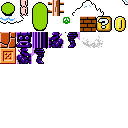
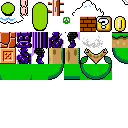
Added foreground, some more tiles, level 1 design

Changed region(s): [[0.0, 0.25, 1.0, 0.625]]

diff --git a/02-Bubble/Scene.cpp b/02-Bubble/Scene.cpp
@@ -10,13 +10,14 @@
 #define SCREEN_Y 0
 
 #define INIT_PLAYER_X_TILES 0
-#define INIT_PLAYER_Y_TILES 4
+#define INIT_PLAYER_Y_TILES 13
 
 
 Scene::Scene()
 {
 	map = NULL;
 	bgmap = NULL;
+	fgmap = NULL;
 	player = NULL;
 }
 
@@ -41,6 +42,7 @@ void Scene::init(int lvl)
 	string levelX = "level0" + std::to_string(lvl);
 
 	map = TileMap::createTileMap("levels/" + levelX + ".txt", glm::vec2(SCREEN_X, SCREEN_Y), texProgram, false);
+	fgmap = TileMap::createTileMap("levels/"+levelX + "-fg.txt", glm::vec2(0,0), texProgram, true);
 	bgmap = TileMap::createTileMap("levels/" + levelX + "-bg.txt", glm::vec2(0, 0), texProgram, true);
 
 	// Level, coins, points, remainig time, gameOver?
@@ -58,14 +60,14 @@ void Scene::init(int lvl)
 	if (lvl == 1){
 		// Ubicacions dels enemics en el nivell 1
 		enemies.clear();
-		enemies.resize(3);
-		for (int e = 0; e < 3; ++e) {
+		//enemies.resize(3);
+		/*for (int e = 0; e < 3; ++e) {
 			enemies[e] = new Item();
 			if (e < 2) enemies[e]->init(glm::vec2(SCREEN_X, SCREEN_Y), texProgram, 1); // 1 = Koopa, 0 = Goomba
 			else enemies[e]->init(glm::vec2(SCREEN_X, SCREEN_Y), texProgram, 0);
 			enemies[e]->setPosition(glm::vec2(10 * map->getTileSize() + (e-1)*40, 10 * map->getTileSize()));
 			enemies[e]->setTileMap(map);
-		}
+		}*/
 	}
 	else if (lvl == 2)
 	{
@@ -455,6 +457,17 @@ void Scene::render()
 	for (int i = 0; i < items.size(); ++i){
 		if (!items[i]->isDead()) items[i]->render();
 	}
+
+	texProgram.setUniformMatrix4f("projection", projection);
+	texProgram.setUniform4f("color", 1.0f, 1.0f, 1.0f, 1.0f);
+	modelview = glm::mat4(1.0f);
+	texProgram.setUniformMatrix4f("modelview", modelview);
+	texProgram.setUniform2f("texCoordDispl", 0.f, 0.f);
+	texProgram.setUniformInt("invertX", 0); // False
+
+
+	// Render foreground
+	fgmap->render();
 
 	// Render text
 	string pointString = std::to_string(points + map->getTotalCoins()*100);

diff --git a/02-Bubble/Player.cpp b/02-Bubble/Player.cpp
@@ -85,7 +85,7 @@ void Player::init(const glm::ivec2& tileMapPos, ShaderProgram& shaderProgram)
 	sprite->setAnimationSpeed(FLAGPOLE, 1);
 	sprite->addKeyframe(FLAGPOLE, glm::vec2(0.75f, 0.125f));
 
-	sprite->changeAnimation(0, false);
+	sprite->changeAnimation(STAND_RIGHT, false);
 	tileMapDispl = tileMapPos;
 	sprite->setPosition(glm::vec2(float(tileMapDispl.x + posPlayer.x), float(tileMapDispl.y + posPlayer.y)));
 
@@ -128,7 +128,7 @@ void Player::init(const glm::ivec2& tileMapPos, ShaderProgram& shaderProgram)
 	bigSprite->setAnimationSpeed(MID_LEFT, 1);
 	bigSprite->addKeyframe(MID_LEFT, glm::vec2(0.625f, 0.125f));
 
-	bigSprite->changeAnimation(0, false);
+	bigSprite->changeAnimation(STAND_RIGHT, false);
 	tileMapDispl = tileMapPos;
 	bigSprite->setPosition(glm::vec2(float(tileMapDispl.x + posPlayer.x), float(tileMapDispl.y + posPlayer.y)));
 
@@ -208,7 +208,7 @@ void Player::init(const glm::ivec2& tileMapPos, ShaderProgram& shaderProgram)
 	starSprite->addKeyframe(FLAGPOLE, glm::vec2(0.75f, 0.625f));
 	starSprite->addKeyframe(FLAGPOLE, glm::vec2(0.75f, 0.875f));
 
-	starSprite->changeAnimation(0, false);
+	starSprite->changeAnimation(STAND_RIGHT, false);
 	tileMapDispl = tileMapPos;
 	starSprite->setPosition(glm::vec2(float(tileMapDispl.x + posPlayer.x), float(tileMapDispl.y + posPlayer.y)));
 
@@ -298,7 +298,7 @@ void Player::init(const glm::ivec2& tileMapPos, ShaderProgram& shaderProgram)
 	starbigSprite->addKeyframe(MID_LEFT, glm::vec2(0.625f, 0.875f));
 
 
-	starbigSprite->changeAnimation(0, false);
+	starbigSprite->changeAnimation(STAND_RIGHT, false);
 	tileMapDispl = tileMapPos;
 	starbigSprite->setPosition(glm::vec2(float(tileMapDispl.x + posPlayer.x), float(tileMapDispl.y + posPlayer.y)));
 

diff --git a/02-Bubble/Screen.cpp b/02-Bubble/Screen.cpp
@@ -22,12 +22,14 @@ Screen::Screen()
 {
     map = NULL;
 	bgmap = NULL;
+	fgmap = NULL;
 }
 
 Screen::~Screen()
 {
     if (map != NULL) delete map;
 	if (bgmap!=NULL) delete bgmap;
+	if (fgmap!=NULL) delete fgmap;
 }
 
 
@@ -35,6 +37,7 @@ void Screen::init(int numScreen){
     initShaders();
 	initGlyphTextures();
 	bgmap = TileMap::createTileMap("levels/level01-bg.txt", glm::vec2(0, 0), texProgram, true);
+	fgmap = TileMap::createTileMap("levels/level01-fg.txt", glm::vec2(0,0), texProgram, true);
 
     nextScreen = -1;
     selection = PLAY_SELECT;
@@ -114,6 +117,7 @@ void Screen::render(){
 
 	glClearColor(.57f, 0.57f, 1.0f, 1.0f);
 	bgmap->render();
+	fgmap->render();
 
 	switch (screenType){
 		case MAINMENU:

diff --git a/02-Bubble/Scene.h b/02-Bubble/Scene.h
@@ -41,6 +41,7 @@ private:
 
 	TileMap* map;
 	TileMap* bgmap;
+	TileMap* fgmap;
 	Player* player;
 	vector<Item*> enemies;
 	vector<Item*> items;

diff --git a/02-Bubble/Screen.h b/02-Bubble/Screen.h
@@ -30,6 +30,7 @@ private:
 private:
 	TileMap* map;
 	TileMap* bgmap;
+	TileMap* fgmap;
 	
 	ShaderProgram texProgram;
     int selection;
